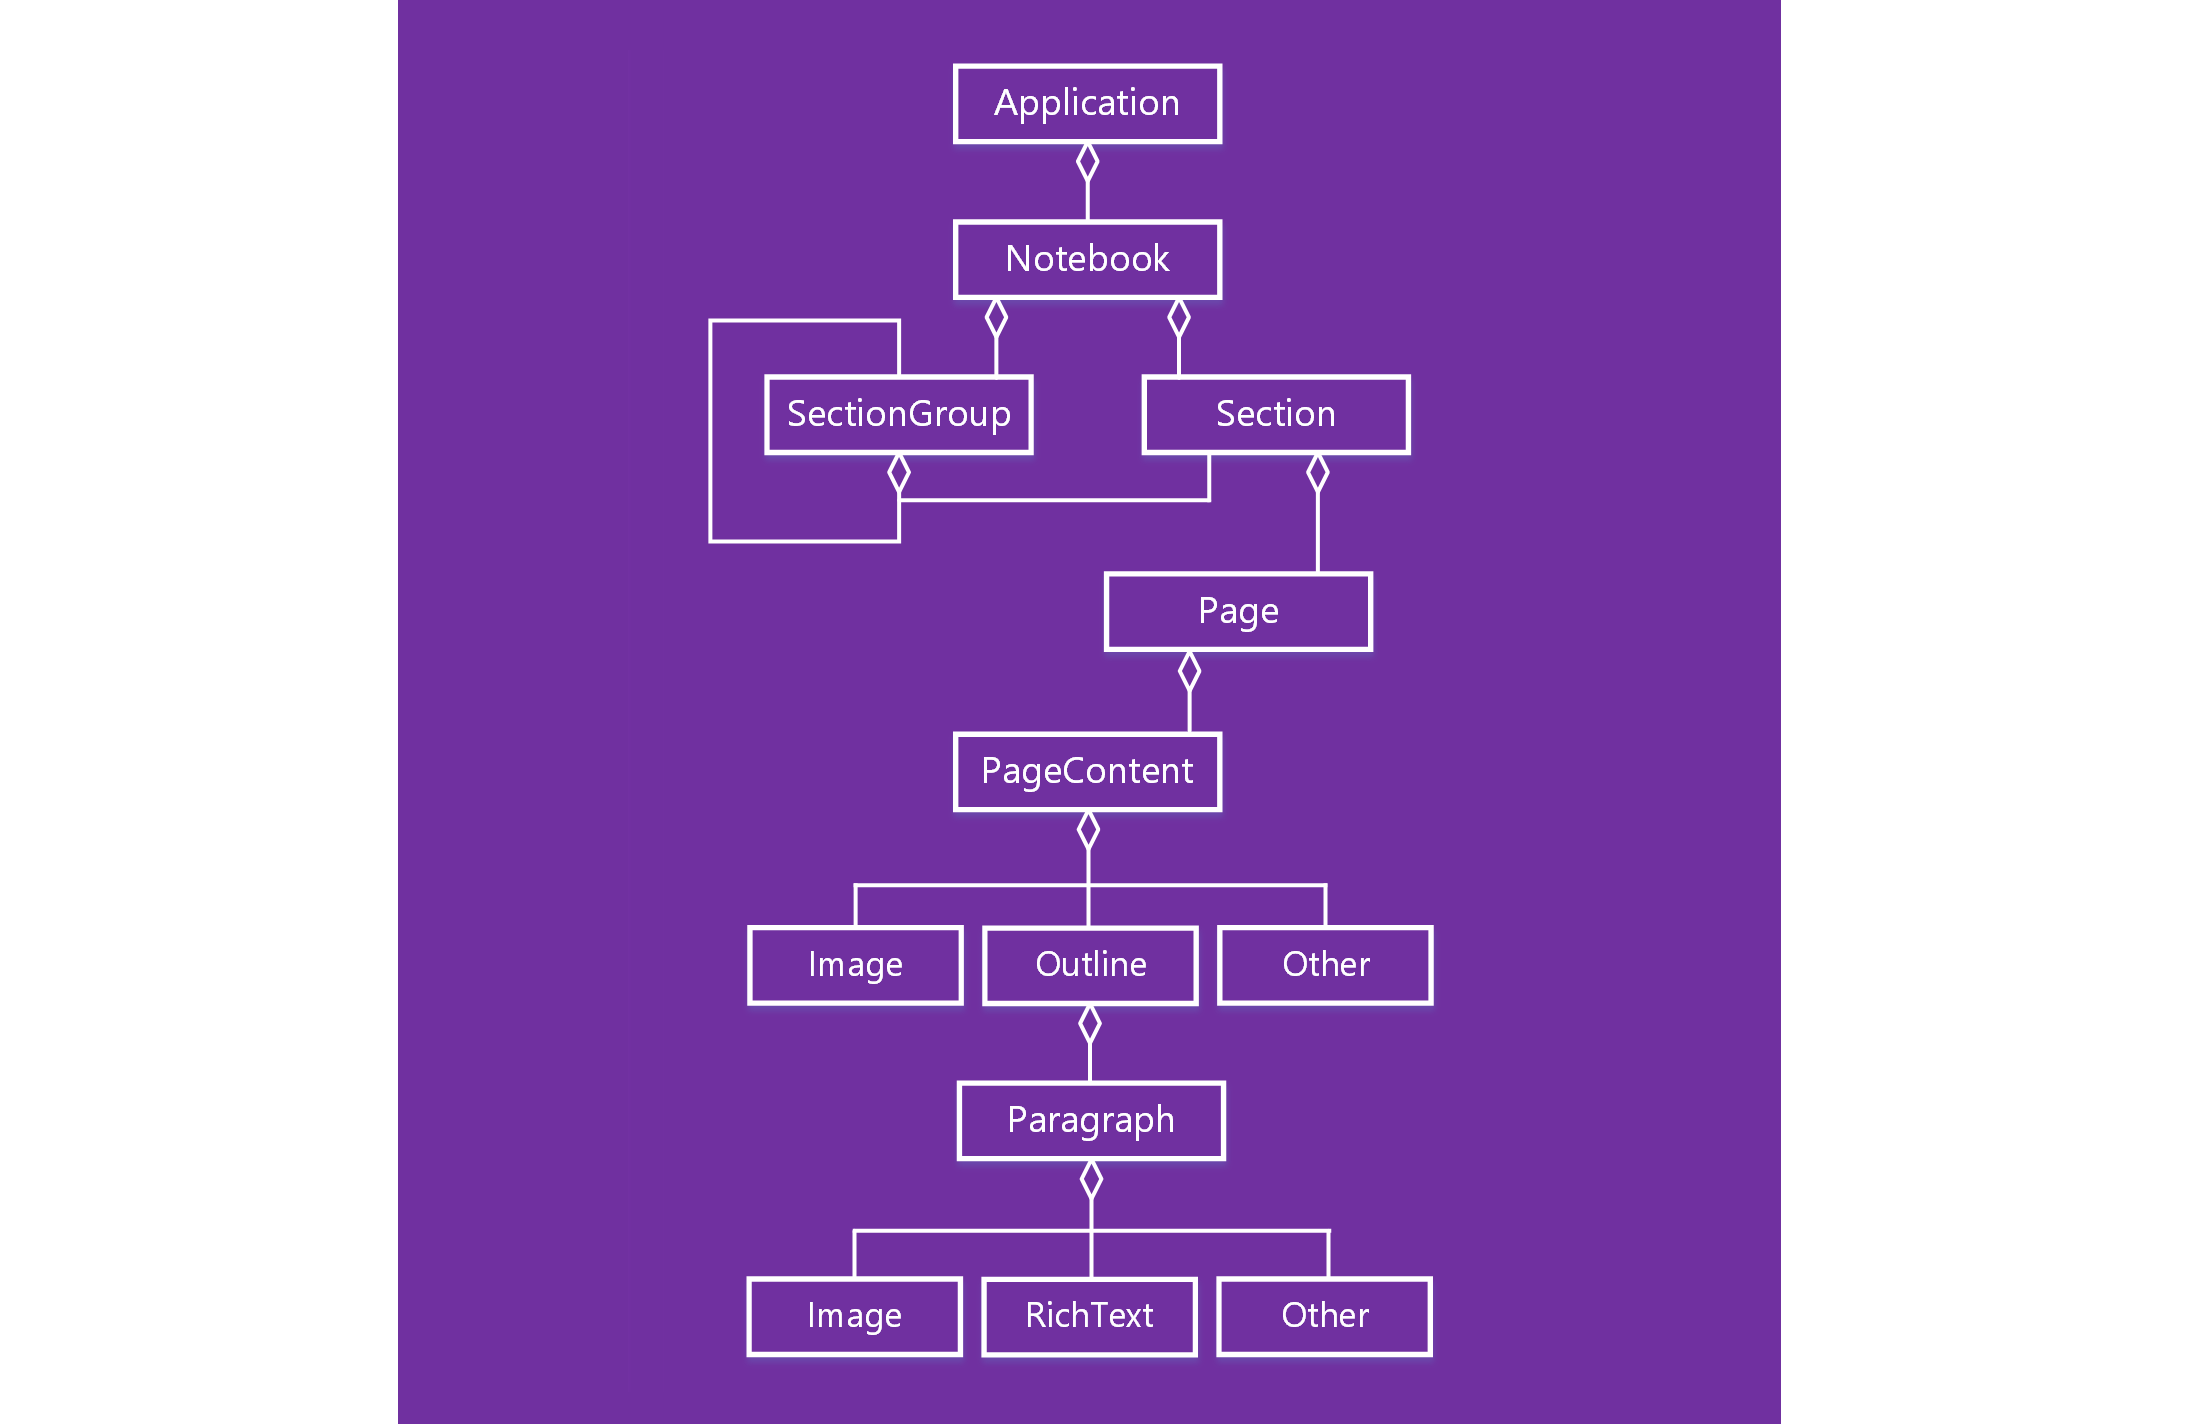
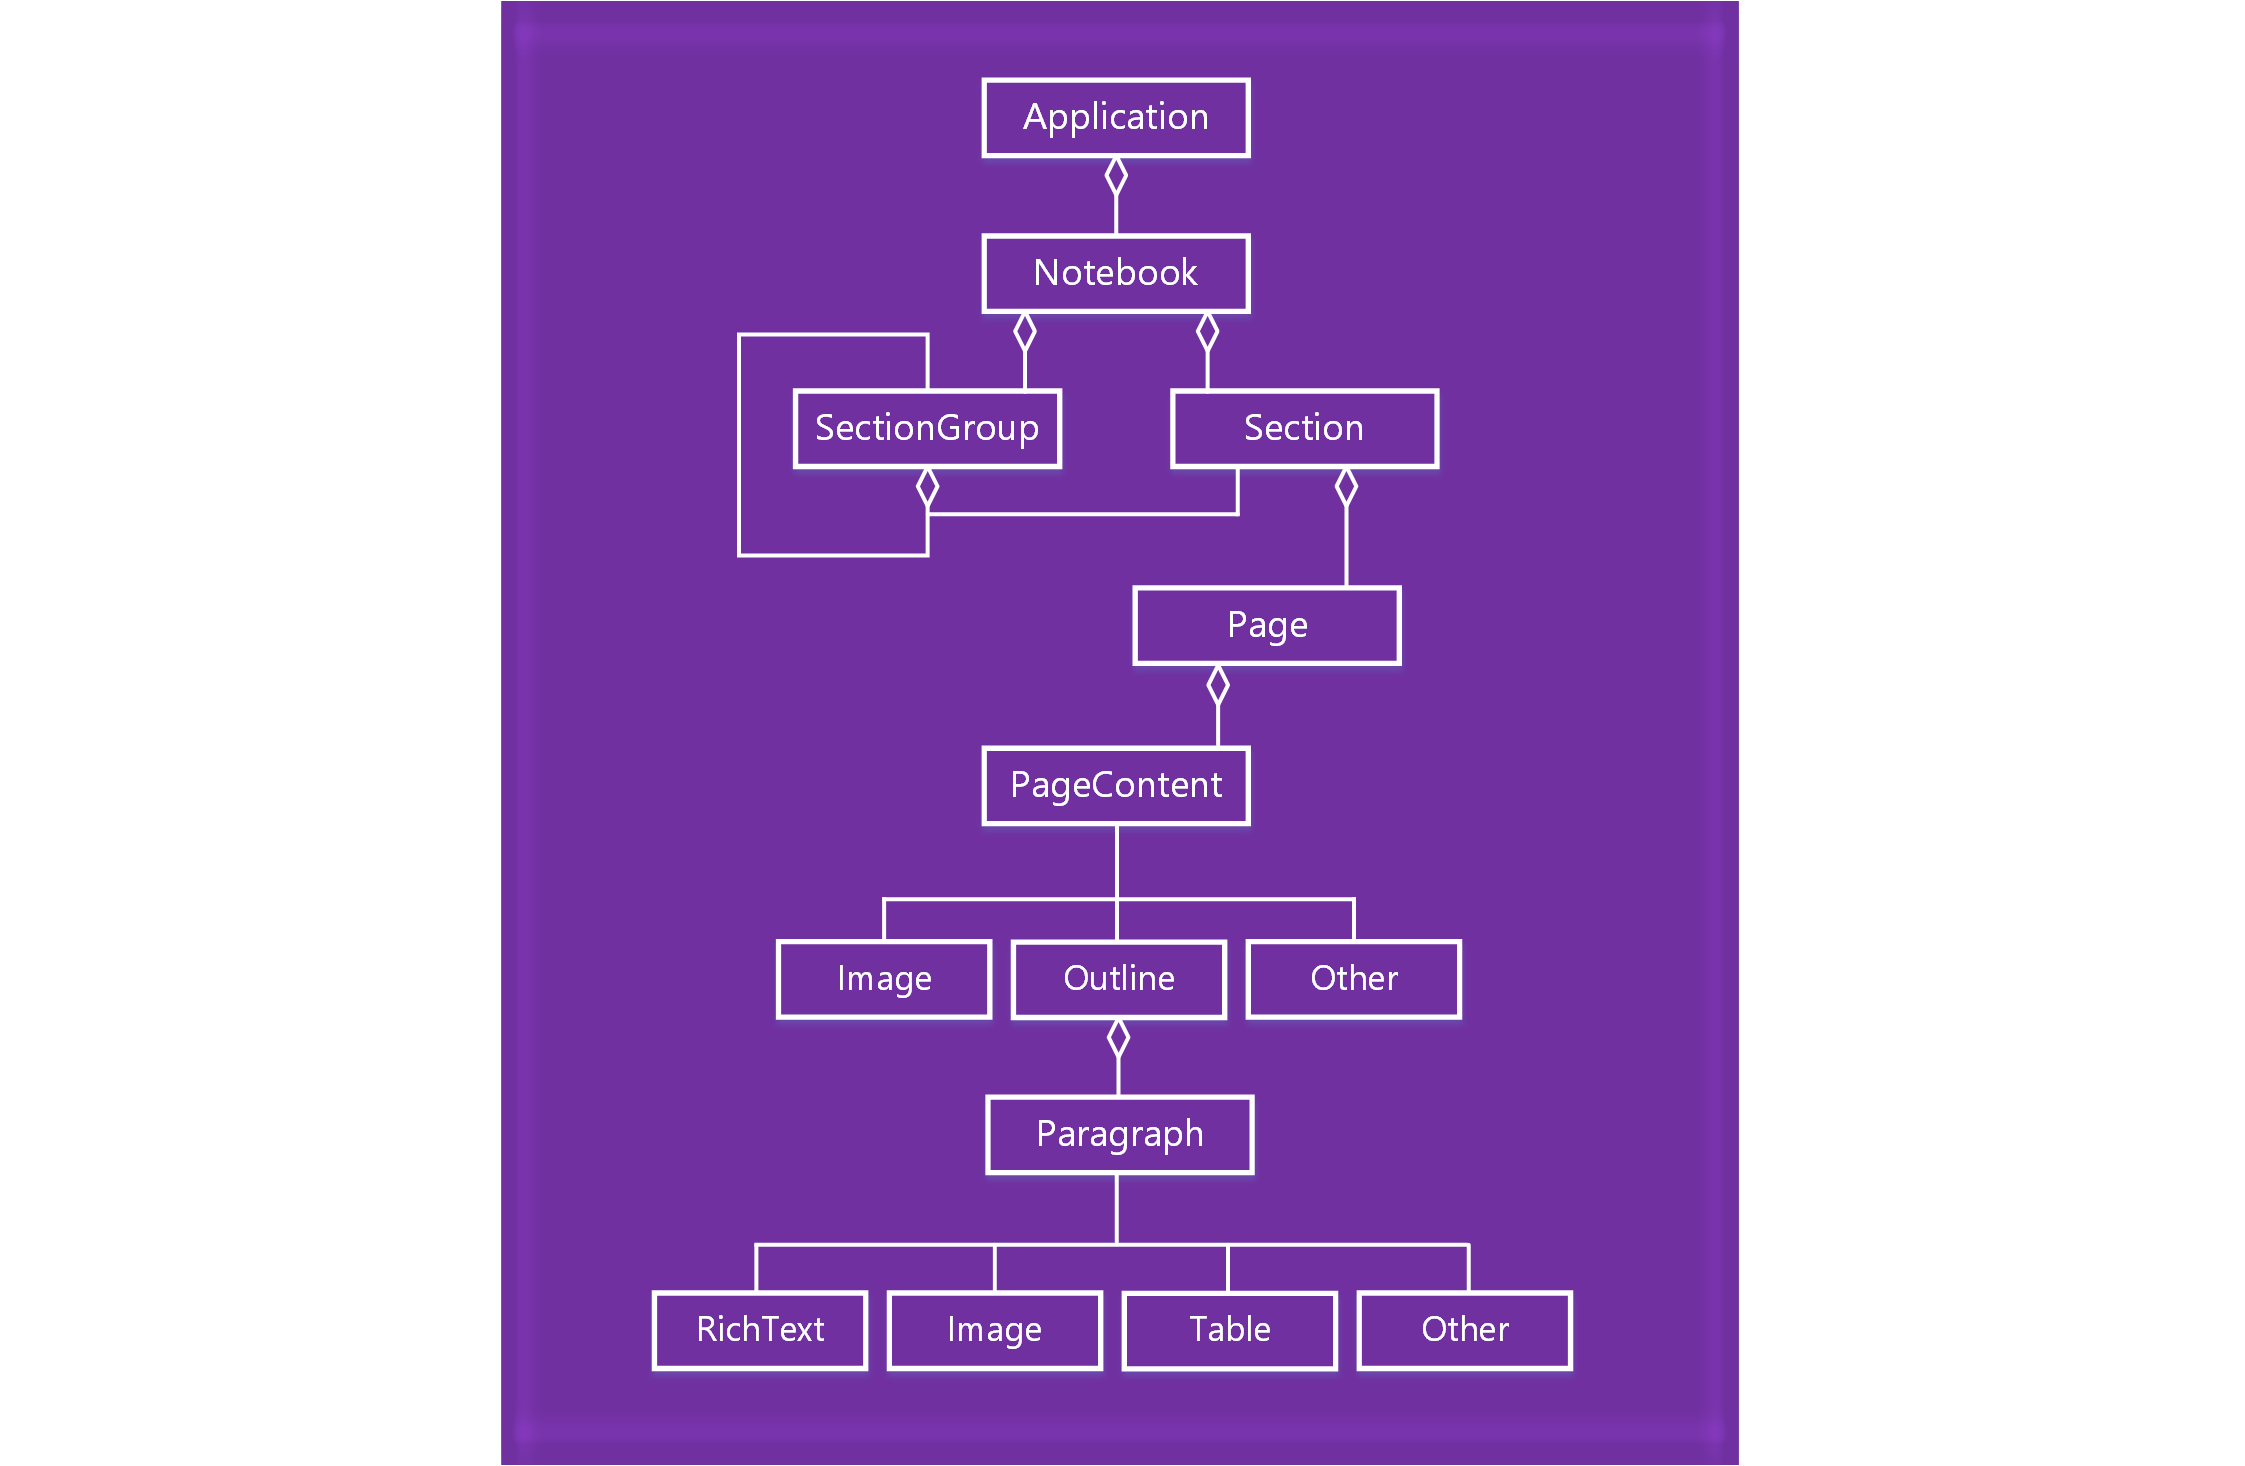
Section.getPages -> Section.pages; add table

diff --git a/docs/onenote/onenote-add-ins-page-content.md b/docs/onenote/onenote-add-ins-page-content.md
@@ -7,20 +7,20 @@ In the OneNote add-ins JavaScript API, page content is represented by the follow
 - A Page object contains a collection of PageContent objects.
 - A PageContent object contains a content type of Outline, Image, or Other.
 - An Outline object contains a collection of Paragraph objects.
-- A Paragraph object contains a content type of RichText, Image, or Other.
+- A Paragraph object contains a content type of RichText, Image, Table, or Other.
 
 To create an empty OneNote page, use one of the following methods:
 
 - [Section.addPage](../../reference/onenote/section.md#addpagetitle-string)
 - [Page.insertPageAsSibling](../../reference/onenote/page.md#insertpageassiblinglocation-string-title-string)
 
-Then use the following methods to work with the page content. The content and structure of a OneNote page are represented by HTML. Only a [subset of HTML is supported](#supported-html) for creating or updating page content.
+Then use methods in the following objects to work with the page content, such as Page.addOutline and Outline.appendHtml. 
 
-- [Page.addOutline](../../reference/onenote/page.md#addoutlineleft-double-top-double-html-string)
-- [Outline.append](../../reference/onenote/outline.md#appendhtml-string)
-- [Outline.prepend](../../reference/onenote/outline.md#prependhtml-string)
-- [Paragraph.insertAsSibling](../../reference/onenote/paragraph.md#insertassiblinghtml-string-insertlocation-string)
-- [Paragraph.delete](../../reference/onenote/paragraph.md#delete)
+- [Page](../../reference/onenote/page.md)
+- [Outline](../../reference/onenote/outline.md)
+- [Paragraph](../../reference/onenote/paragraph.md)
+
+The content and structure of a OneNote page are represented by HTML. Only a subset of HTML is supported for creating or updating page content, as described below.
 
 ## Supported HTML
 

diff --git a/docs/onenote/onenote-add-ins-programming-overview.md b/docs/onenote/onenote-add-ins-programming-overview.md
@@ -33,7 +33,7 @@ Use the **Application** object to access OneNote objects such as **Notebook**, *
 
 3- Call **load** on the proxy to fill it with the property values specified in the parameter. This call is added to the queue of commands. 
 
-   Method calls to the API (such as `context.application.getActiveSection().getPages();`) are also added to the queue.
+   Method calls to the API (such as `context.application.getActiveSection().pages;`) are also added to the queue.
     
 4- Call **context.sync** to run all queued commands in the order that they were queued. This synchronizes the state between your running script and the real objects, and by retrieving properties of loaded OneNote objects for use in your script. You can use the returned promise object for chaining additional actions.
 
@@ -44,7 +44,7 @@ For example:
         OneNote.run(function (context) {
             
             // Get the pages in the current section.
-            var pages = context.application.getActiveSection().getPages();
+            var pages = context.application.getActiveSection().pages;
             
             // Queue a command to load the id and title for each page.            
             pages.load('id,title');
@@ -54,9 +54,9 @@ For example:
                 .then(function () {
                     
                     // Read the id and title of each page. 
-                    $.each(pages.items, function(index, object) {
-                        var pageId = object.id;
-                        var pageTitle = object.title;
+                    $.each(pages.items, function(index, page) {
+                        var pageId = page.id;
+                        var pageTitle = page.title;
                         console.log(pageTitle + ': ' + pageId); 
                     });
                 })
